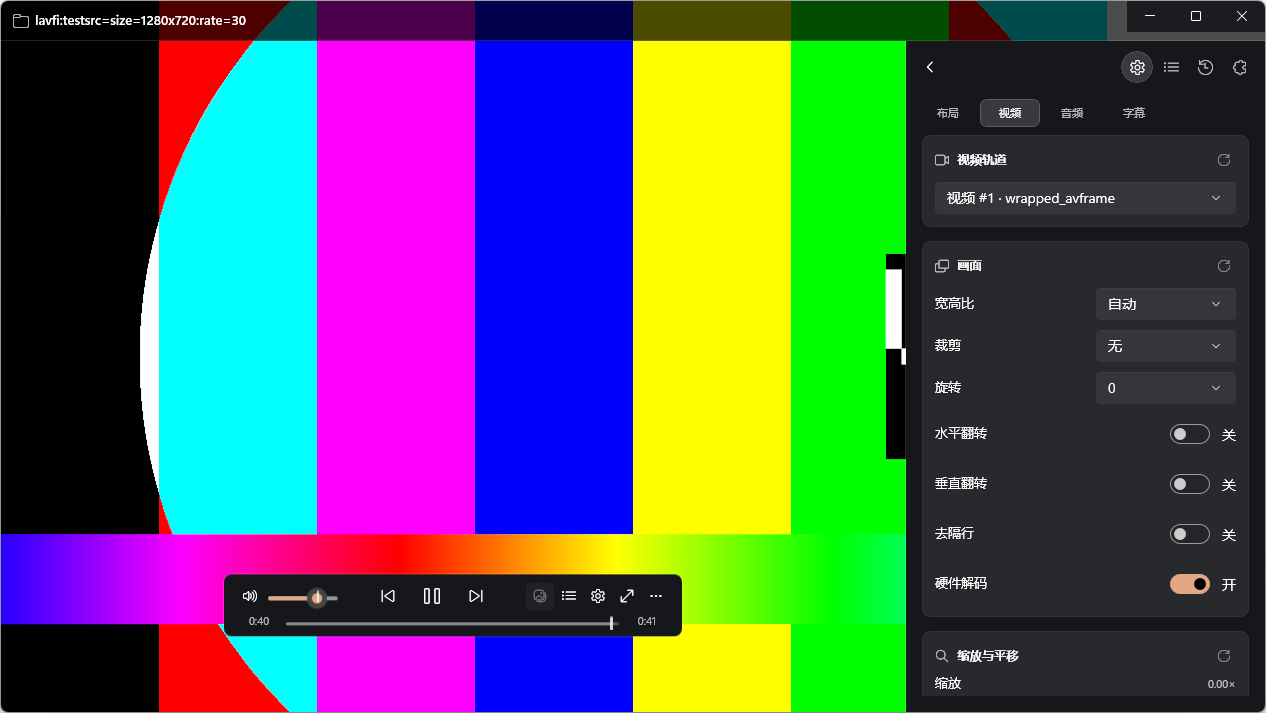
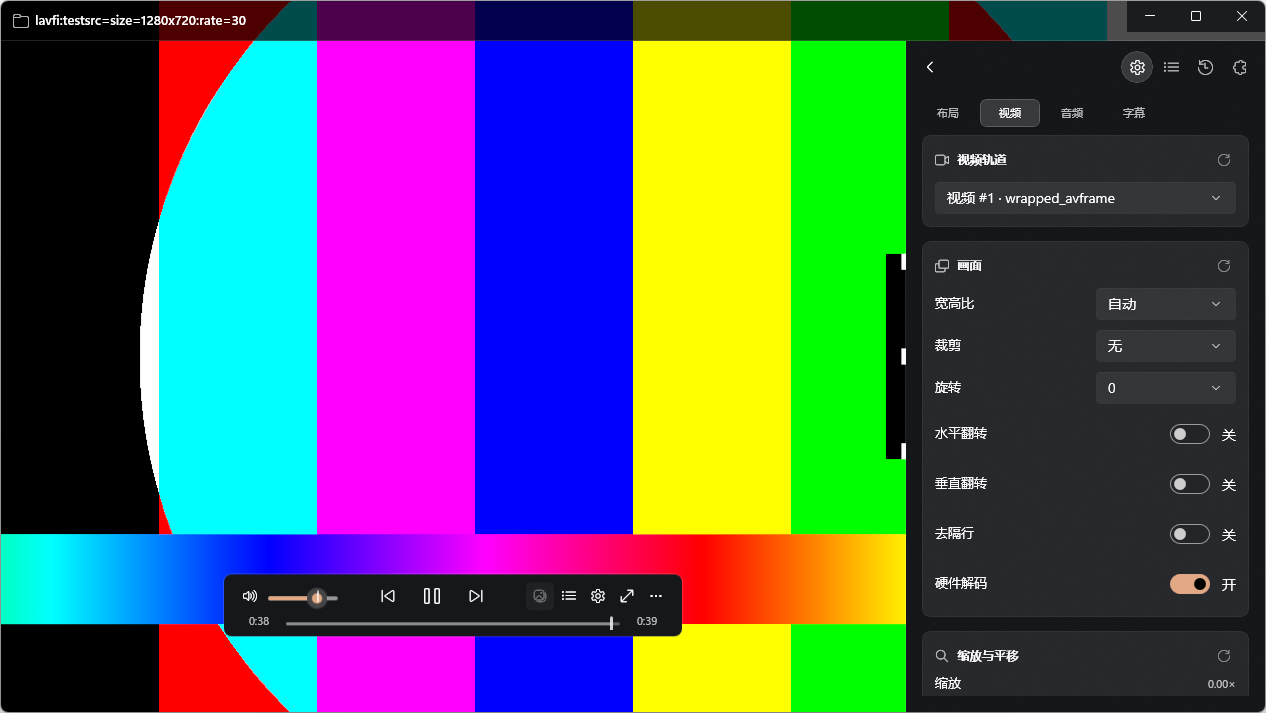
fix(ui): use acrylic material for sidebars
- SidebarAcrylicBrush theme resources (dark/light, in-app acrylic, translucent fallback)
- SidebarHost panel uses the acrylic brush; cards/tabs layer above it
- Stage 4 screenshot refreshed

Changed region(s): [[0.0, 0.7405, 0.7393, 0.8948], [0.6777, 0.3703, 0.7393, 0.4937]]

diff --git a/src/Wiina.App/Themes/Tokens.xaml b/src/Wiina.App/Themes/Tokens.xaml
@@ -10,6 +10,11 @@
             <SolidColorBrush x:Key="TitleBarBorderBrush" Color="#22FFFFFF" />
             <SolidColorBrush x:Key="PanelBrush" Color="#FF15171B" />
             <SolidColorBrush x:Key="PanelBorderBrush" Color="#26FFFFFF" />
+            <AcrylicBrush x:Key="SidebarAcrylicBrush"
+                          TintColor="#FF101114"
+                          TintOpacity="0.45"
+                          TintLuminosityOpacity="0.4"
+                          FallbackColor="#CC15171B" />
             <SolidColorBrush x:Key="CardBrush" Color="#14FFFFFF" />
             <SolidColorBrush x:Key="CardBorderBrush" Color="#1FFFFFFF" />
             <SolidColorBrush x:Key="PrimaryTextBrush" Color="#FFFFFFFF" />
@@ -37,6 +42,11 @@
             <SolidColorBrush x:Key="TitleBarBorderBrush" Color="#1A000000" />
             <SolidColorBrush x:Key="PanelBrush" Color="#FFFFFFFF" />
             <SolidColorBrush x:Key="PanelBorderBrush" Color="#1F000000" />
+            <AcrylicBrush x:Key="SidebarAcrylicBrush"
+                          TintColor="#FFF3F3F3"
+                          TintOpacity="0.5"
+                          TintLuminosityOpacity="0.45"
+                          FallbackColor="#CCFFFFFF" />
             <SolidColorBrush x:Key="CardBrush" Color="#CCFFFFFF" />
             <SolidColorBrush x:Key="CardBorderBrush" Color="#14000000" />
             <SolidColorBrush x:Key="PrimaryTextBrush" Color="#E4000000" />
@@ -79,4 +89,6 @@
     <CornerRadius x:Key="CardCornerRadius">8</CornerRadius>
     <CornerRadius x:Key="ThumbCornerRadius">4</CornerRadius>
 </ResourceDictionary>
+
+
 

diff --git a/src/Wiina.App/Controls/SidebarHost.xaml b/src/Wiina.App/Controls/SidebarHost.xaml
@@ -12,7 +12,7 @@
         </Grid.RenderTransform>
 
         <Border x:Name="PanelBorder"
-                Background="{ThemeResource PanelBrush}"
+                Background="{ThemeResource SidebarAcrylicBrush}"
                 BorderBrush="{ThemeResource PanelBorderBrush}"
                 BorderThickness="1,0,0,0">
             <Grid>
